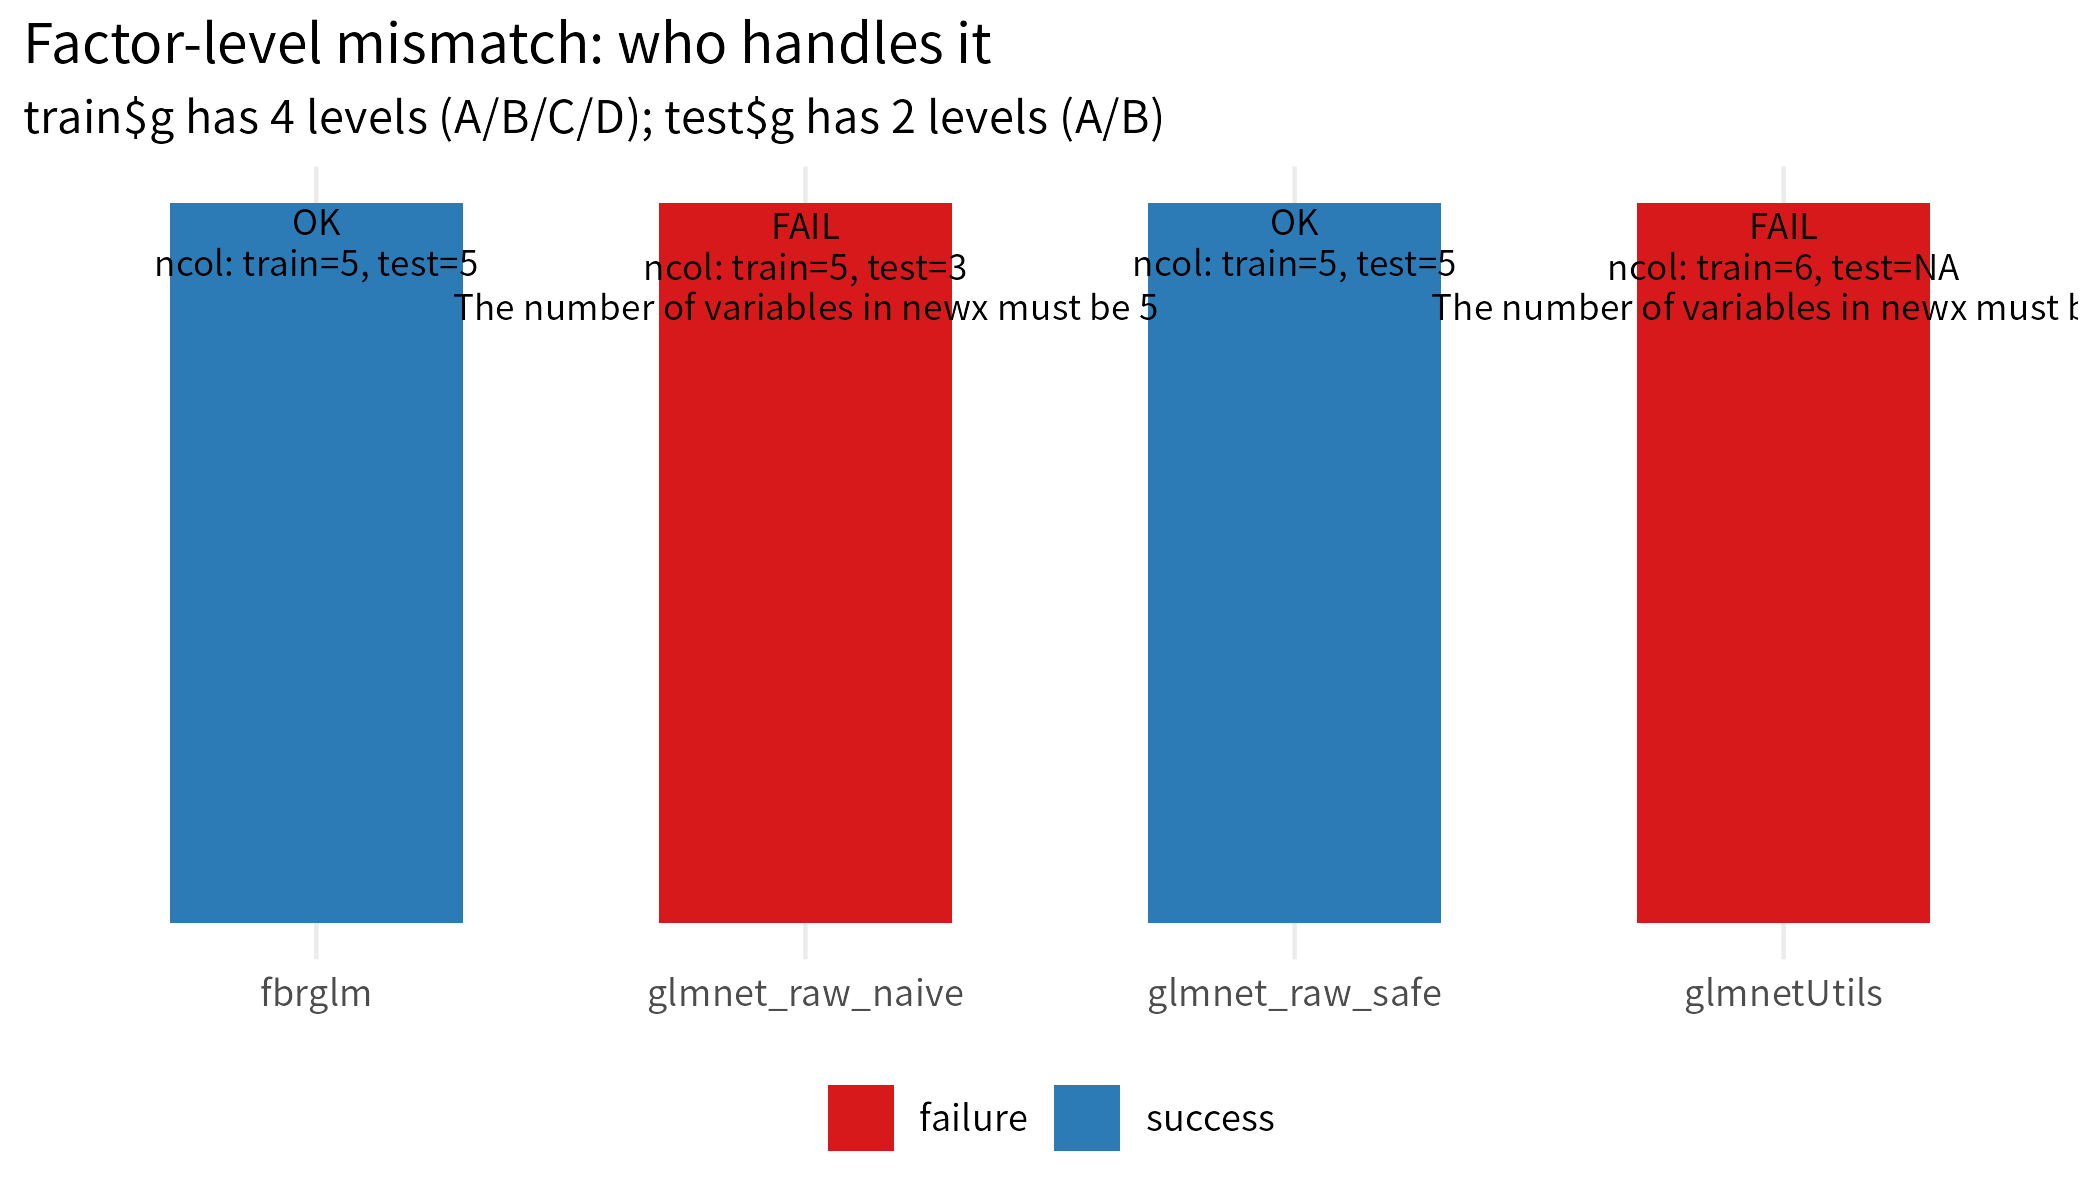
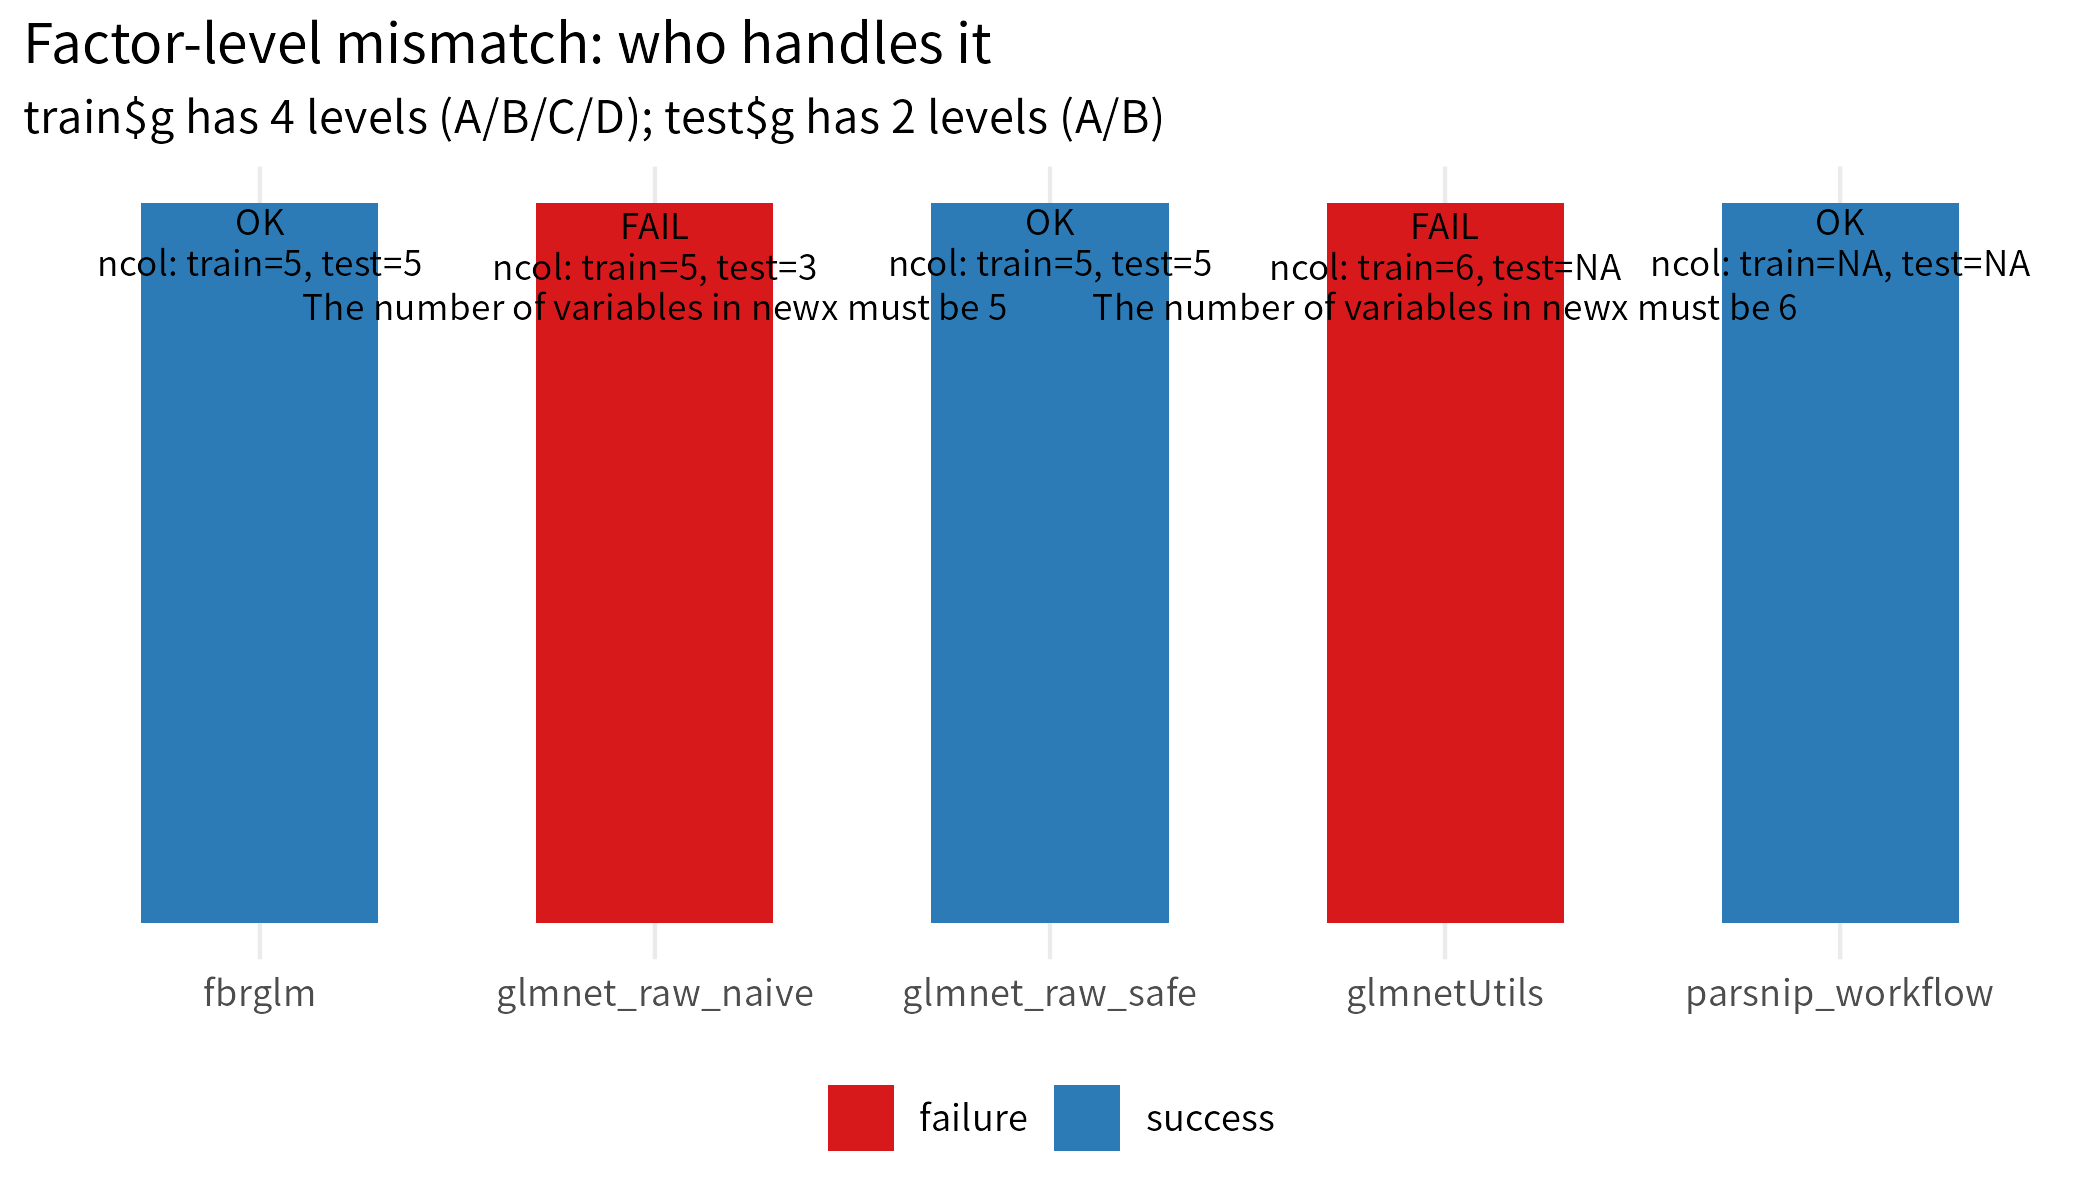
Add parsnip workflow to small benchmarks

diff --git a/README.md b/README.md
@@ -82,32 +82,37 @@ just two observed values). This is the canonical setup where a naive
 | `glmnet_raw_naive`   | ❌      | 5          | 3         | manual: `model.matrix(train)` vs `model.matrix(test)` built separately |
 | `glmnet_raw_safe`    | ✅      | 5          | 5         | manual: `relevel(test$g, levels = levels(train$g))` before `model.matrix` |
 | `glmnetUtils`        | ❌      | 6          | NA        | formula interface, but failed under narrowed test factor levels |
+| `parsnip_workflow`   | ✅      | NA         | NA        | tidymodels workflow with the `glmnet` engine; hardhat/recipes restore xlevels |
 
-Both failure rows produce a `glmnet` runtime error of the form
+Failure rows produce a `glmnet` runtime error of the form
 `The number of variables in newx must be N`.
 
 ![prediction-failure figure](results/figures/prediction_failures_small.png)
 
-The takeaway: fbrglm's `predict()` is the only formula-driven path that
-handles narrowed test factors without the user having to manually
-re-level. `glmnet_raw_safe` works but moves the bookkeeping to the
-caller, which is exactly the friction fbrglm is meant to remove.
+The takeaway: fbrglm's `predict()` and parsnip's workflow path both
+handle narrowed test factors automatically because each stores the
+training-time xlevels on the fit. `glmnet_raw_safe` works as well, but
+moves the bookkeeping to the caller. `glmnet_raw_naive` and
+`glmnetUtils` fail — the friction fbrglm is meant to remove.
 
 ### Runtime benchmark
 
 Small binomial dataset (n = 200, p = 5, single λ = 0.05), median of 5
 iterations from `bench::mark()`.
 
-| method        | median runtime |
-|---------------|----------------|
-| `fbrglm`      | ~ 4.9 ms       |
-| `glmnet_raw`  | ~ 2.5 ms       |
-| `glmnetUtils` | ~ 4.0 ms       |
+| method             | median runtime |
+|--------------------|----------------|
+| `fbrglm`           | ~ 4.9 ms       |
+| `glmnet_raw`       | ~ 2.7 ms       |
+| `glmnetUtils`      | ~ 4.1 ms       |
+| `parsnip_workflow` | ~ 15.6 ms      |
 
 fbrglm pays a small constant cost over raw `glmnet` for its formula /
 factor / xlevels bookkeeping and lands in the same neighbourhood as
-`glmnetUtils`. The overhead is what buys you the prediction-path
-robustness above.
+`glmnetUtils`. The tidymodels workflow path is the slowest of the four
+— ~3× fbrglm — because every fit goes through the hardhat /
+workflows abstraction layer. The overhead is what buys you the
+prediction-path robustness above.
 
 ![runtime figure](results/figures/runtime_small.png)
 
